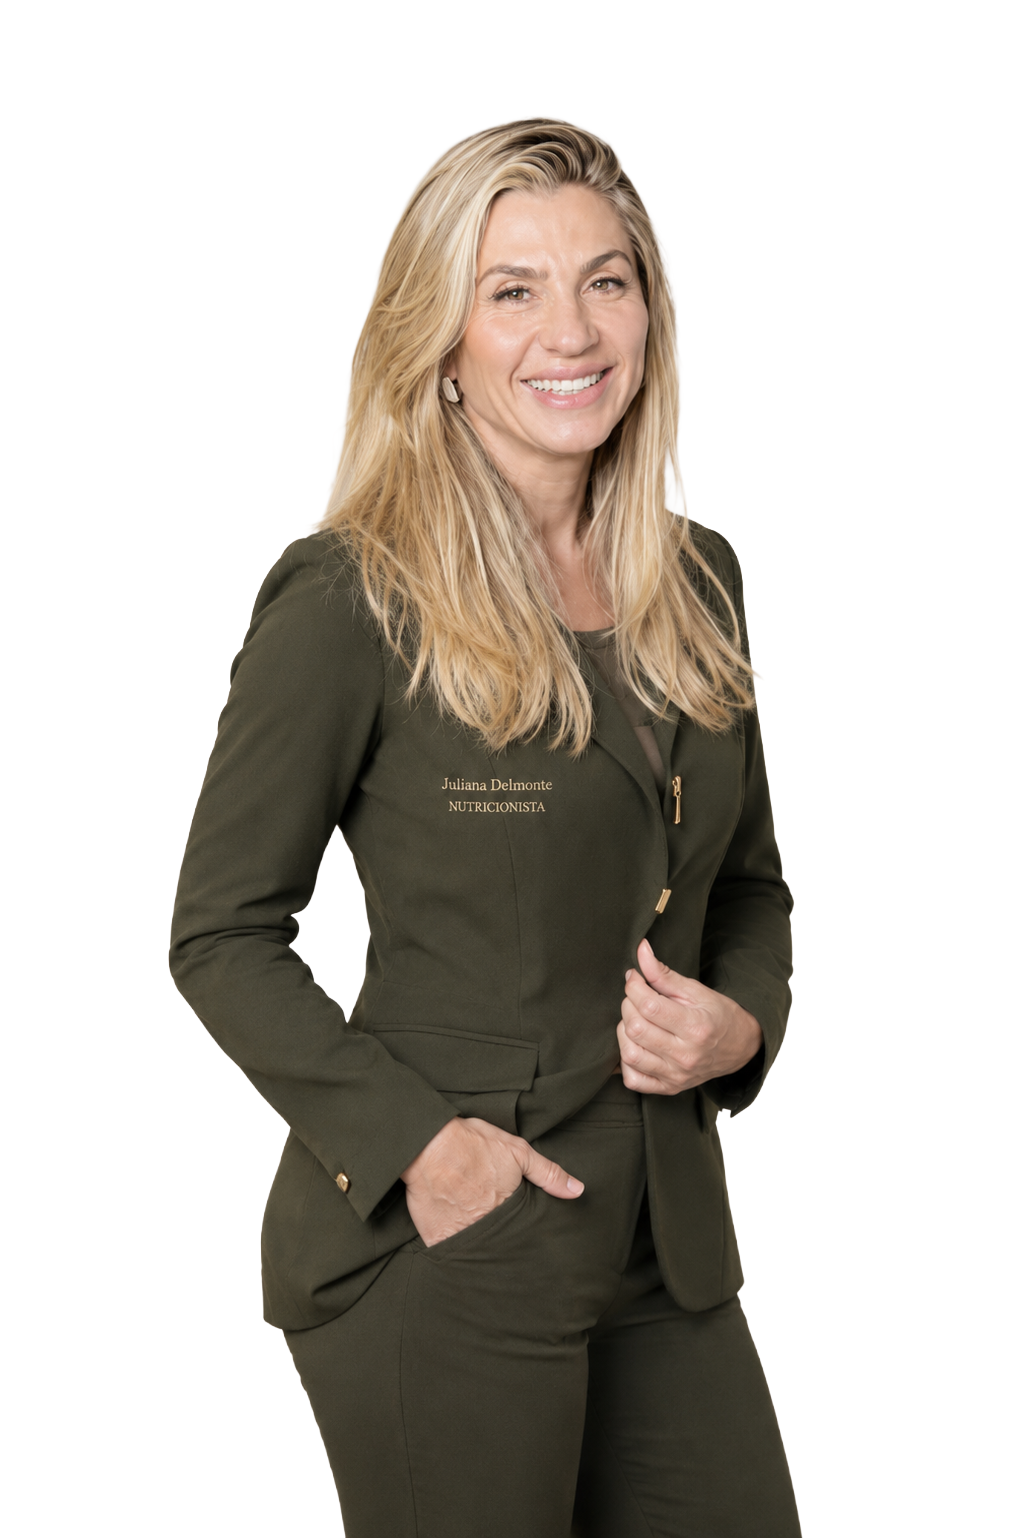
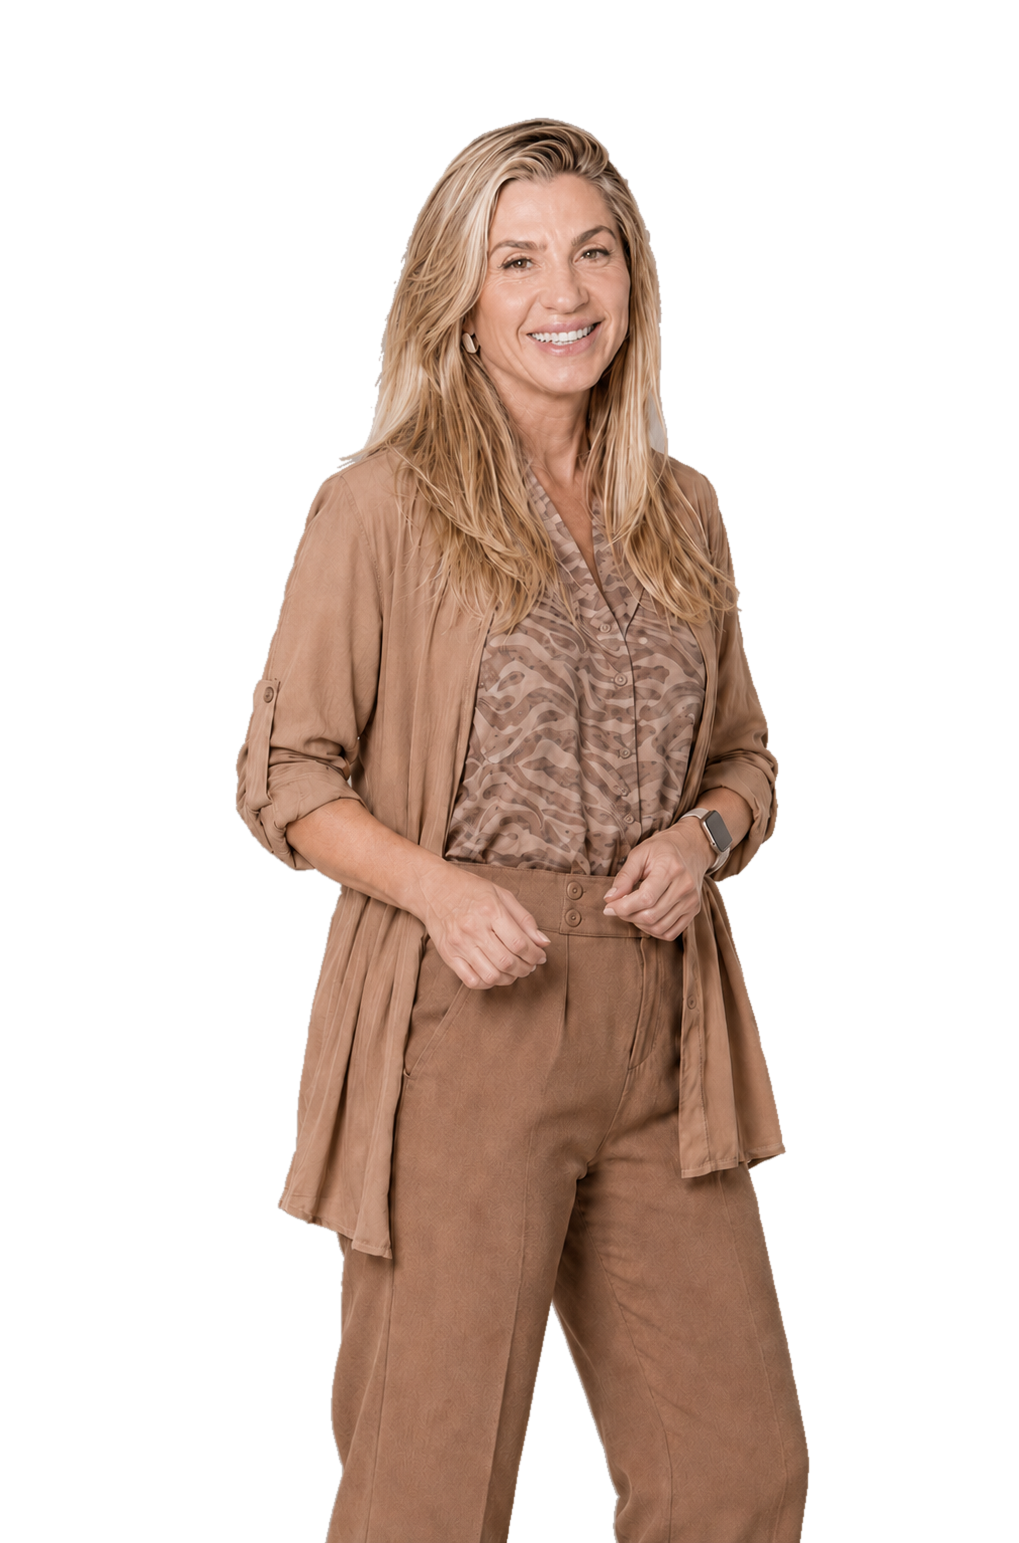
content(about): swap Juliana's portrait for the new photo
Same crop, same parallax/hover effects — only the source photo and its
lossless WebP re-export change. Intrinsic width/height updated to the new
file's actual dimensions (1019x1543) so the CLS reservation still matches.

diff --git a/src/components/sections/About/index.tsx b/src/components/sections/About/index.tsx
@@ -618,8 +618,8 @@ export function AboutSection() {
               <img
                 src={PORTRAIT}
                 alt="Juliana Delmonte, nutricionista, sorrindo"
-                width={1023}
-                height={1538}
+                width={1019}
+                height={1543}
                 draggable={false}
                 loading="lazy"
                 decoding="async"
